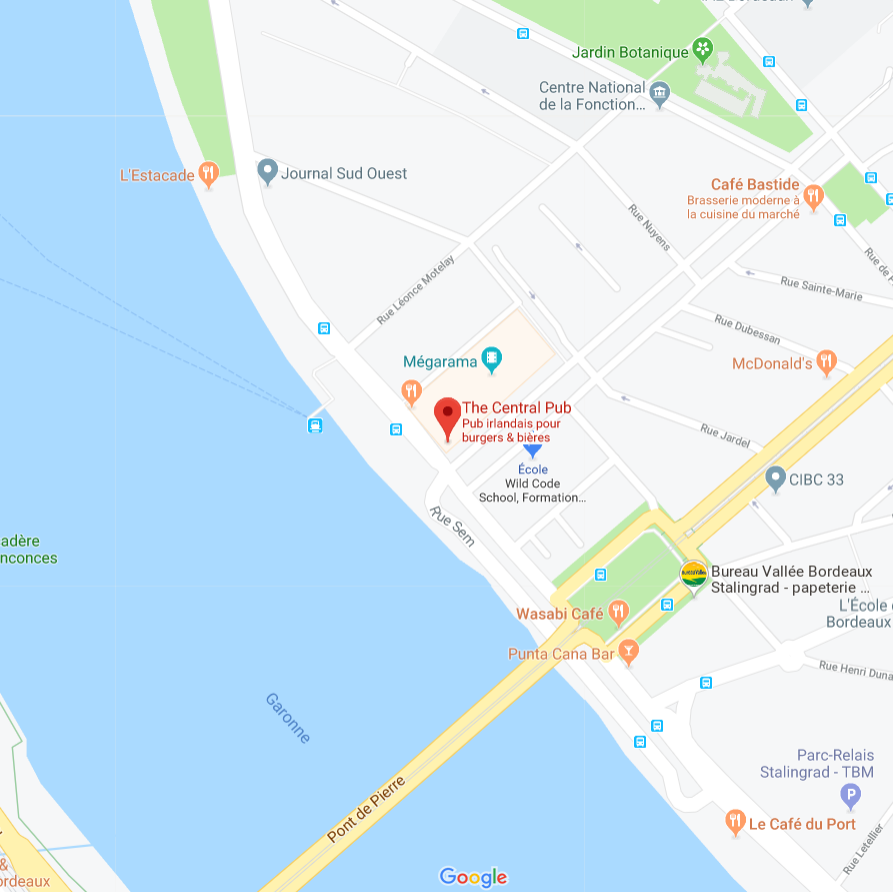
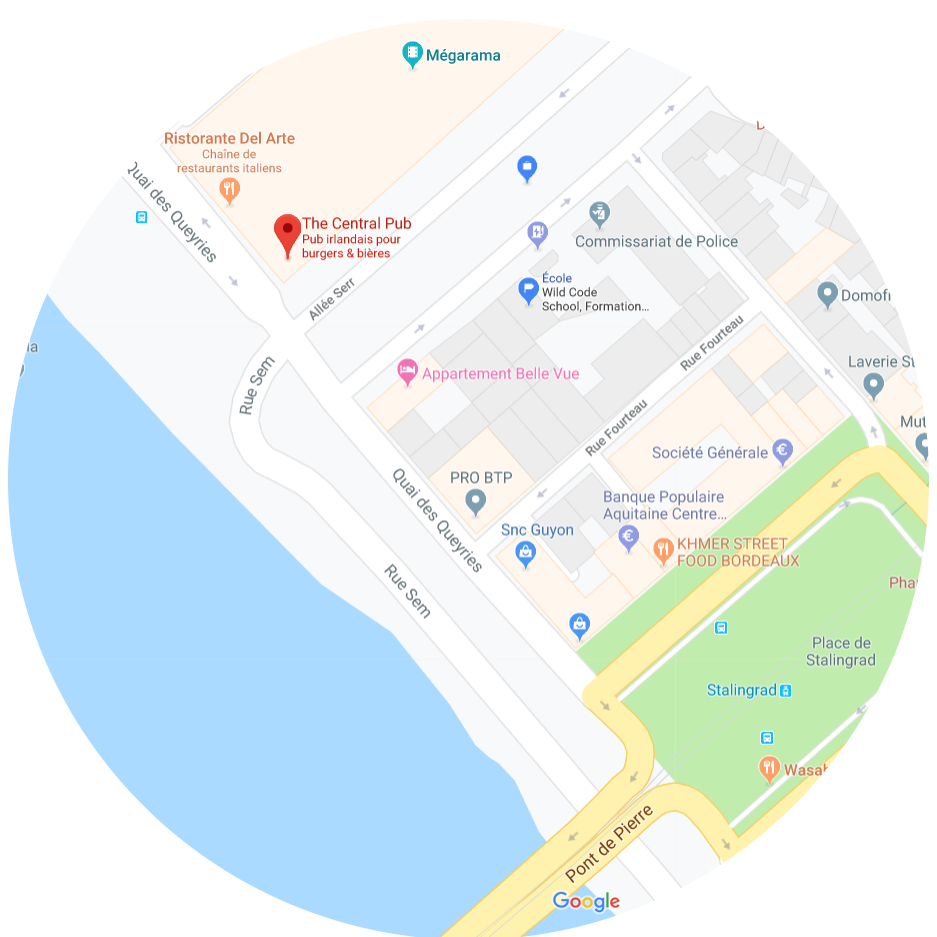
ajout footer + modifs bannière et réservation

diff --git a/style.css b/style.css
@@ -15,10 +15,10 @@ body{
 /*Section article card -- Paul*/
 
 .banniere{
-    background: url(Images/banniere-bc2.jpg) no-repeat;
+    background: url(Images/banniere-logo.jpg) no-repeat;
     background-attachment: fixed;
     background-size: cover;
-    height: 100vh;
+    height: 95vh;
 }
 #all-card {
     display:flex;
@@ -88,12 +88,14 @@ h2{
     flex-direction: column;
     width: 100%;
     align-items: center;
+    padding-top: 3rem;
+    padding-bottom: 3rem;
 }
 
 form{
     display: flex;
     flex-direction: column;
-    width: 70%;
+    width: 60%;
 }
 
 input, textarea, select, label{
@@ -122,14 +124,16 @@ textarea{
     width: 15%;
     height: 50px;
     border-radius: 10px;
-    background-color: #706852;
+    background-color: #6e6e6e;
     color: white;
     font-weight: bold;
     align-self: flex-end;
+    margin-top: 1rem;
+    margin-right: 1rem;
 }
 
 #booking_button:hover{
-    background-color: #e0a039;
+    background-color: #58B19F;
     cursor: pointer;
 }
 
@@ -149,13 +153,23 @@ textarea{
     position: relative;
     top: 12rem;
     padding: 0.5rem;
-    color: white;
-    width: 80%;
+    background-color: #fad390;
+    color: black;
+    width: 60%;
     border-radius: 10px;
     align-self: center;
     text-decoration: none;
     font-weight: bold;
     z-index: 1;
+    text-align: center;
+}
+
+#link:visited{
+    color: black;
+}
+
+#link:hover{
+    background-color: #58B19F;
 }
 
 #link_livraison img{
@@ -164,6 +178,60 @@ textarea{
     opacity: 0.8;
 }
 
+/* Footer */
+footer{
+    display: flex;
+    background-color: #58B19F;
+    justify-content: space-around;
+    height: 350px;
+}
+
+.div_img_footer{
+    display: flex;
+}
+
+#logo_footer{
+    width: 250px;
+    margin: auto;
+}
+
+#map_footer{
+    width: 300px;
+    margin: auto;
+}
+
+.footer_div{
+    display: flex;
+    flex-direction: column;
+    justify-content: center;
+    align-items: center;
+}
+.footer_div h3, .footer_div p, .footer_div a{
+    padding: 0.5rem;
+}
+
+.footer_div a{
+    text-decoration: none;
+    font-weight: bold;
+}
+
+.footer_div a:visited{
+    color: black;
+}
+
+.footer_div a:hover{
+    color: white;
+}
+
+#social{
+    display: flex;
+    justify-content: space-around;
+}
+
+.social_logo{
+    width: 100px;
+    padding: 1rem;
+}
 
 /* Section d'Adrien - Page 2 */
 
@@ -203,6 +271,10 @@ textarea{
 @media (max-width: 961px){
     
     /* Section article card -- Paul */
+    .banniere{
+        display: none;
+    }
+
     #all-card{
         flex-direction: column;
         margin: 0 auto;
@@ -247,6 +319,7 @@ textarea{
     h2{
         font-size: 1.2rem;
     }
+
     /* Livraison */
 
     #link_livraison img{
@@ -257,7 +330,20 @@ textarea{
     #link{
         text-align: center;
     }
+
+    /* Footer */
+    footer{
+        flex-direction: column;
+        height: auto;
+    }
+
+    .footer_div, .div_img_footer{
+        margin-bottom: 2rem;
+    }
+
 }
+
+
 @media screen and (min-width:961px) {
     .adress {
         display: block;

diff --git a/index.html b/index.html
@@ -132,14 +132,37 @@
     <section id="livraison">
         <h2>Faites-vous livrer à domicile !</h2>
         <div id="link_livraison">
-            <a href="./page2.html" target="_blank" id="link">Accédez au formulaire de livraison !</a>
+            <a href="./page2.html" target="_blank" id="link">Faites-vous livrer !</a>
             <a href="./page2.html" target="_blank"> <img src="Images/livraison2.jpg" alt="scooter"></a>
         </div>
     </section>
 
-<!-- Footer: Dominique -------------------------------------------------->
+<!-- Footer: Anne   -------------------------------------------------->
     <footer>
-        
+        <div class="div_img_footer">
+            <img src="Images/logo.png" alt="logo Central Pub" id="logo_footer"/>
+        </div>
+        <div class="footer_div" id="horaires">
+            <h3>Horaires d'ouverture</h3>
+            <p>Nous sommes ouverts 7j/7</p>
+            <p>de 9h00 à 2h00</p>
+            <p>Service en continu</p>
+        </div>
+        <div class="footer_div" id="contact">
+            <p>7 Quai des Queyries</p>
+            <p>33800 Bordeaux</p>
+            <p>05 57 80 38 00</p>
+            <a href="#booking">Formulaire de réservation</a>
+            <a href="./page2.html" target="_blank">Formulaire de livraison</a>
+        </div>
+        <div class="div_img_footer">
+            <img src="Images/map.png" alt="access map" id="map_footer"/>
+        </div>
+        <div id="social">
+            <img src="Images/facebook.svg" alt="logo facebook" class="social_logo"/>
+            <img src="Images/insta.svg" alt="logo instagram" class="social_logo"/>
+            <img src="Images/twitter.svg" alt="logo twitter" class="social_logo"/>
+        </div>
     </footer>
     
   
